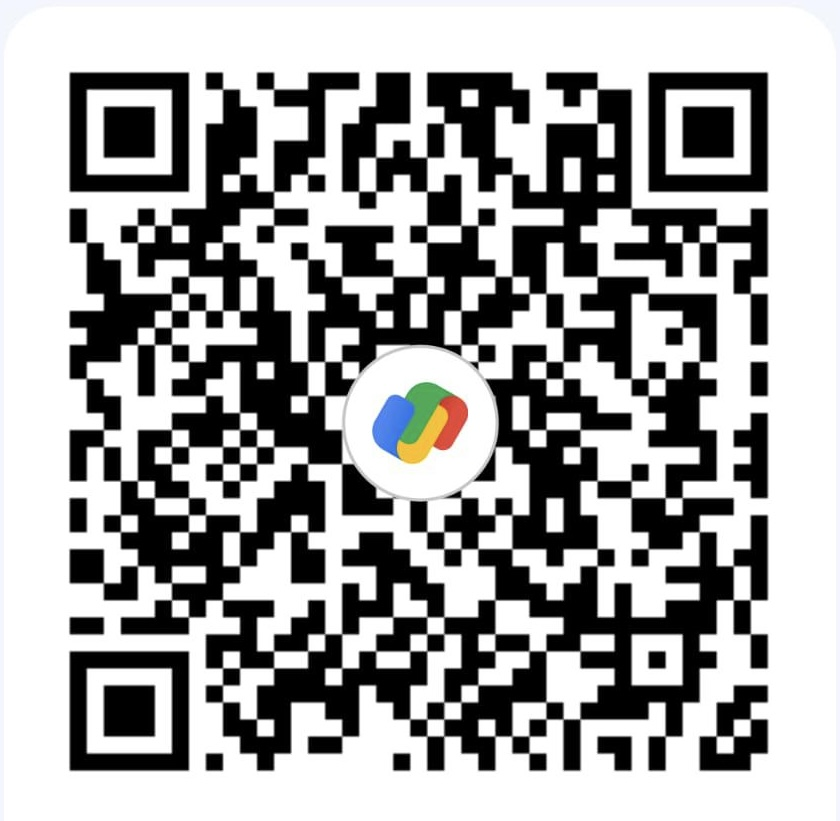
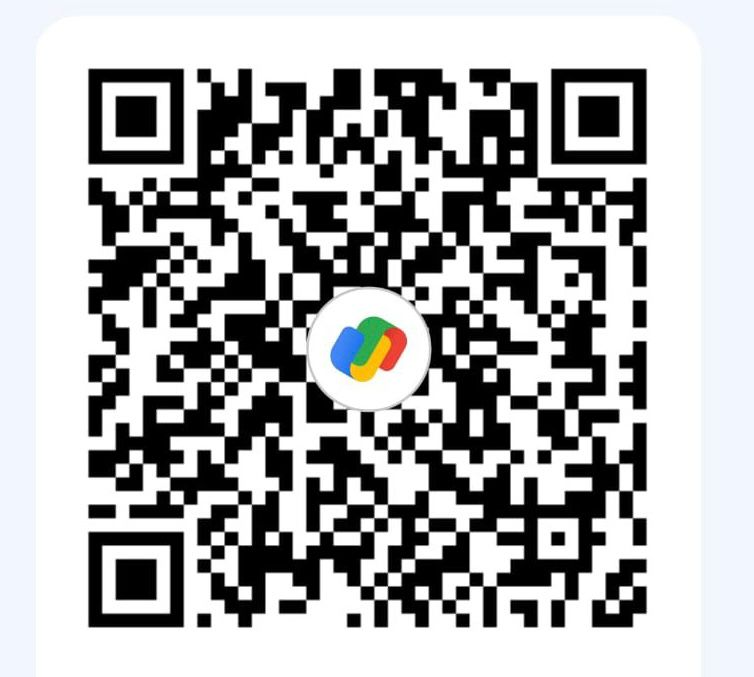
cc registration

diff --git a/index.html b/index.html
@@ -109,9 +109,32 @@
   <section id="tournaments" class="section" data-aos="fade-left">
     <h2>🔥 On-going Tournaments</h2>
     <div class="tournament-box">
-      <h3>📈 Continental Clash</h3>
-      <p><strong>Status:</strong> Registrations soon</p>
-      <p><strong>Format:</strong> Group Stages + Knockouts</p>
+      <h3>📈Continental Clash Tournament</h3>
+      <p><strong>Status:</strong> Registrations Open</p>
+      <p><strong>Format:</strong> Group stages + Knockouts</p>
+    </div>
+  </div>
+  </div>
+  <form  class="registration-form" action="https://formsubmit.co/cfhydra@gmail.com" method="POST">
+    <input type="hidden" name="_captcha" value="false">
+    <input type="hidden" name="_next" value="https://hydracf.netlify.app/thanks.html">
+    <input type="text" name="name" placeholder="Full Name" required>
+    <input type="tel" placeholder="Phone Number" required />
+    <input type="text" name="uid" placeholder="Account UID number" required>
+    <!-- Payment Link -->
+<div style="text-align: center; margin: 20px 0;">
+  <!-- QR Payment -->
+<div style="text-align: center; margin: 20px 0;">
+  <p style="margin-bottom: 10px; color: #ccc;">Scan the QR code below to pay <strong style="color: #ff3333;">₹30</strong></p>
+  <img src="qr.jpg" alt="QR Code for Payment" style="max-width: 220px; width: 100%; border-radius: 12px; box-shadow: 0 0 12px rgba(0,0,0,0.4); margin-bottom: 10px;">
+  <p style="margin: 5px 0; color: #aaa;">UPI ID: mdsathik108@okicici<strong></strong></p>
+  <p style="color: #ff5252;"><strong>⚠ Upload screenshot after payment</strong></p>
+</div>
+    <button type="button" onclick="window.open('https://drive.google.com/drive/folders/1sxLwHjkkLOXV1lQctqeeLfFZ7tKFfCRK', '_blank')">
+        Upload Screenshot
+      </button>
+    <button type="submit">Submit Registration</button>
+  </form>
       
       <!-- Replaced rules with WhatsApp group link -->
      
